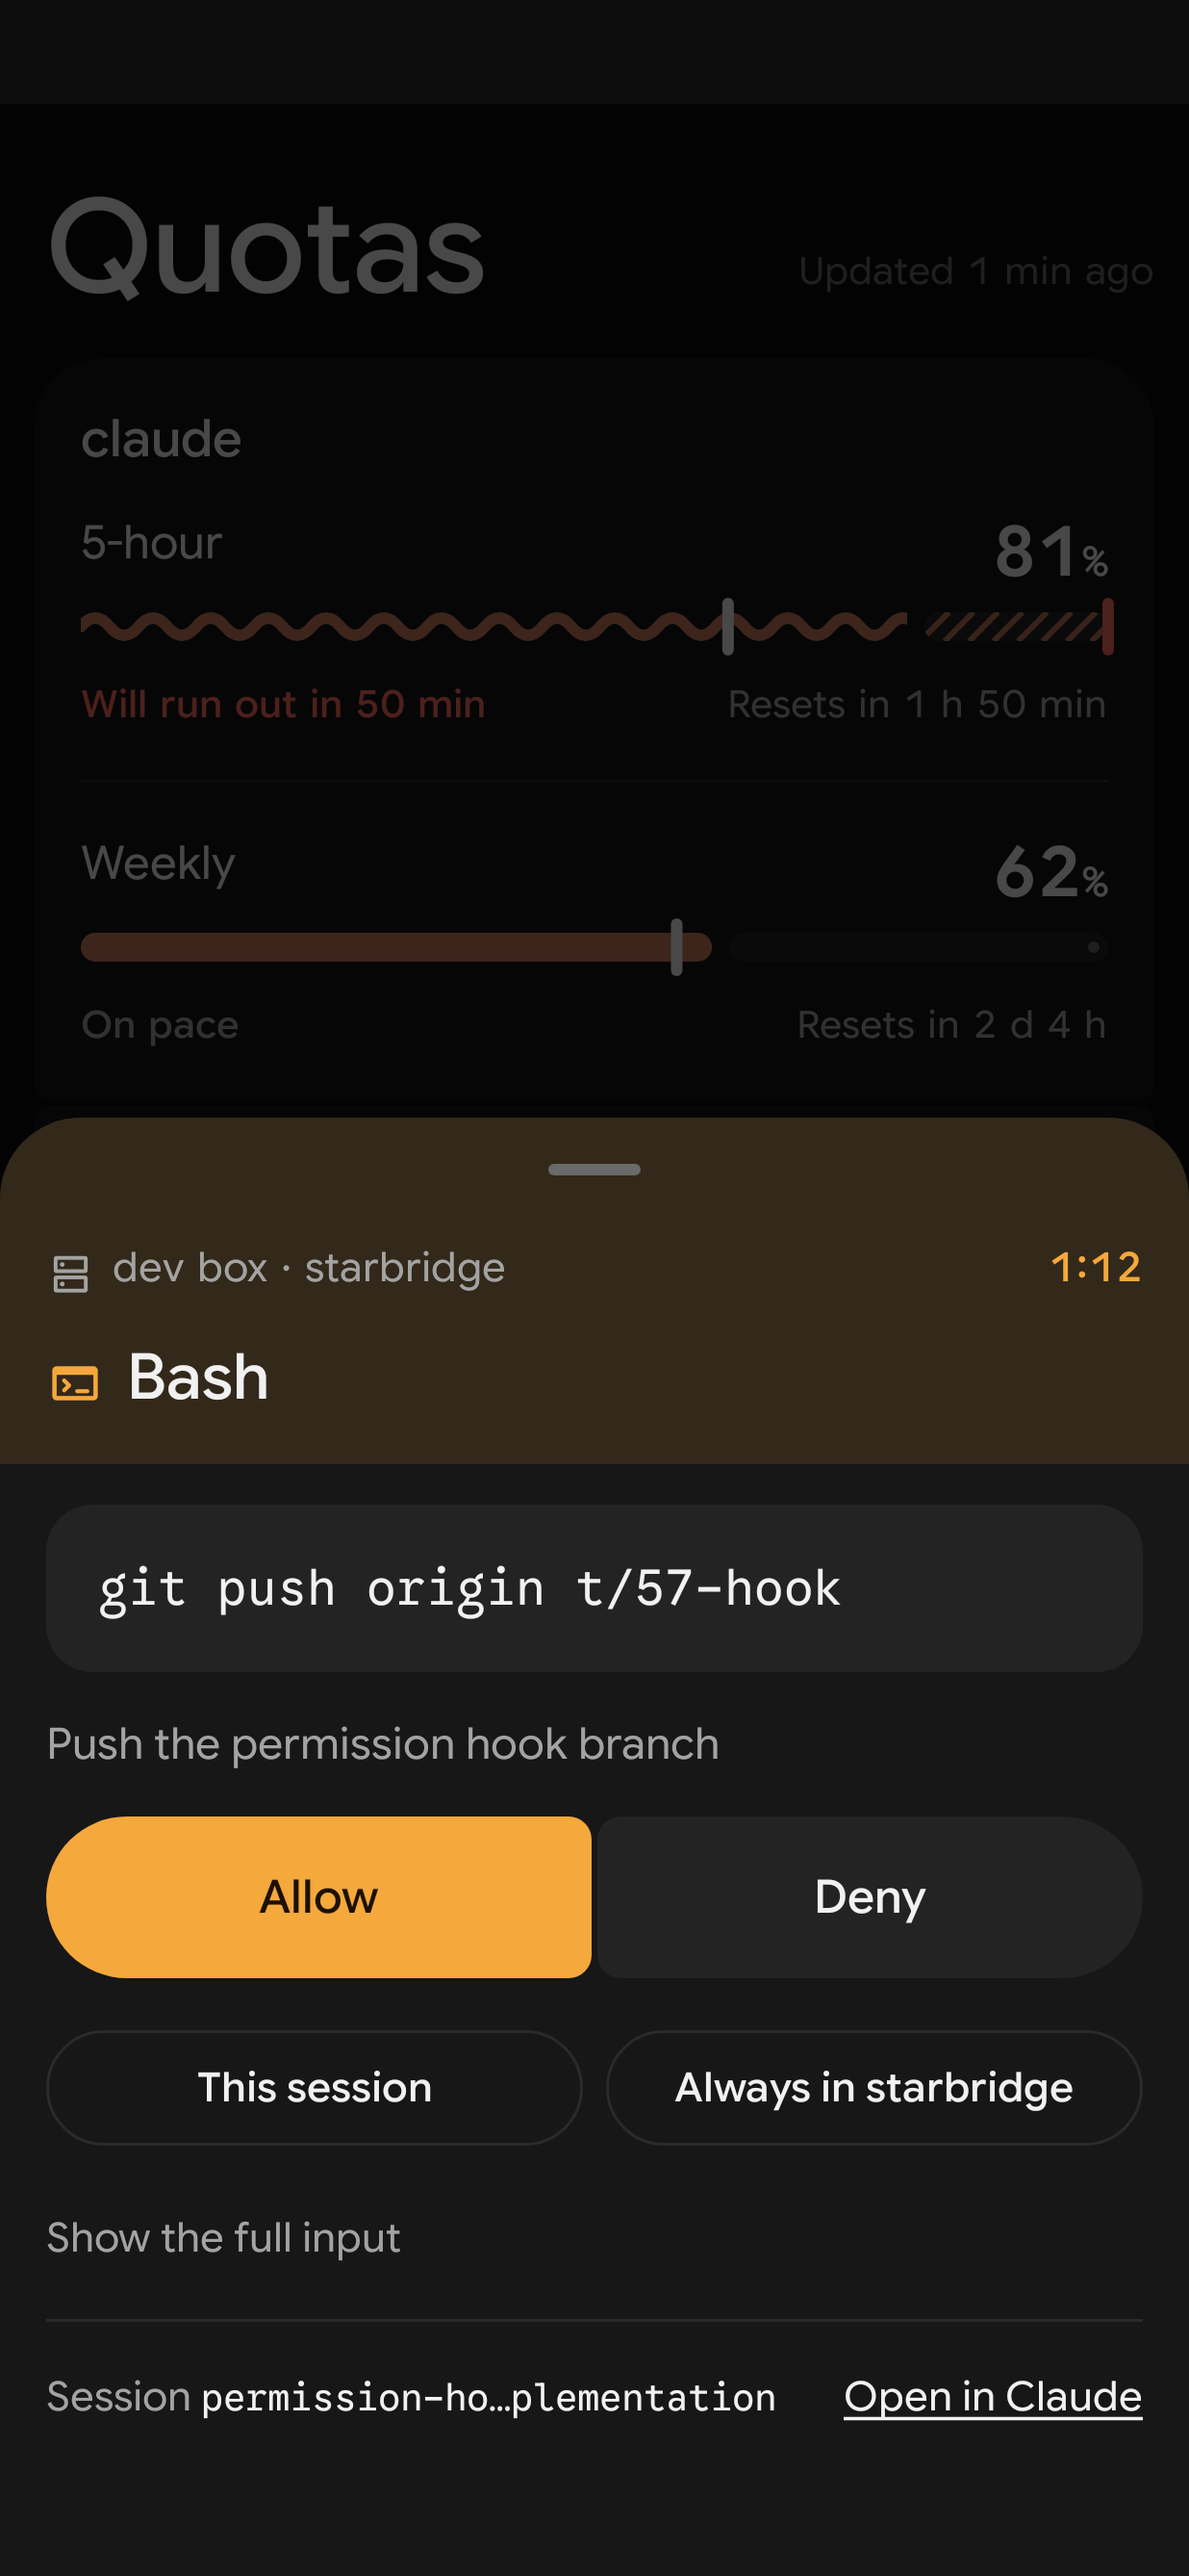
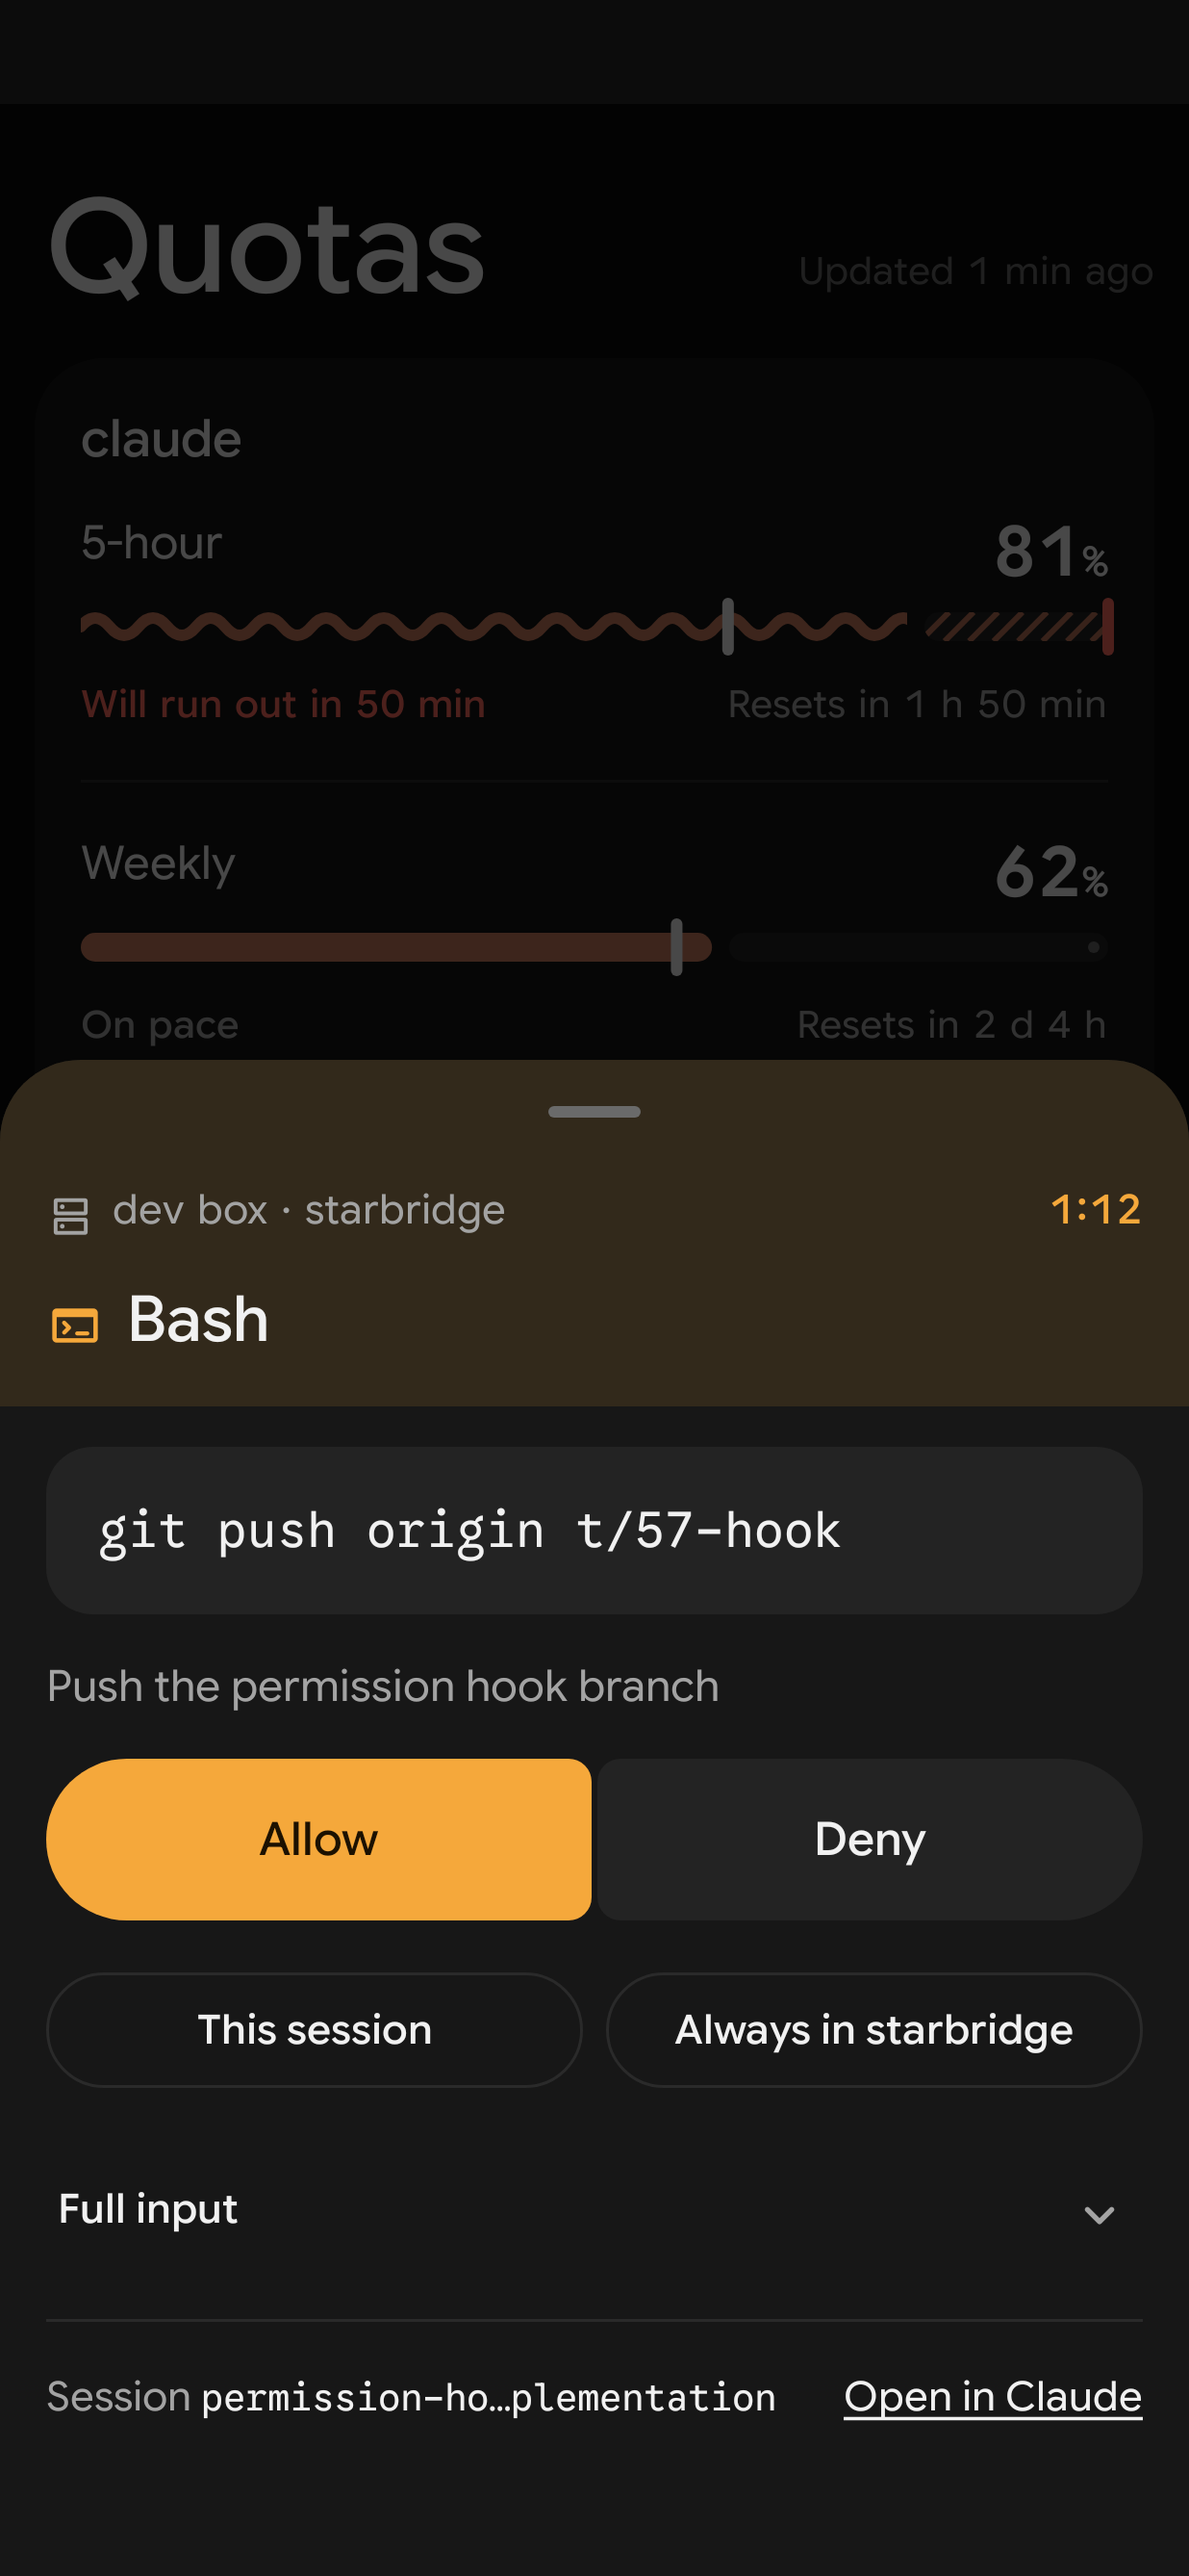
Prompt sheet: the full input opens under its row; Allow and Deny stay put

diff --git a/android/app/src/main/kotlin/dev/starbridge/app/ui/inbox/Prompts.kt b/android/app/src/main/kotlin/dev/starbridge/app/ui/inbox/Prompts.kt
@@ -1,5 +1,13 @@
 package dev.starbridge.app.ui.inbox
 
+import androidx.compose.ui.draw.clip
+import androidx.compose.ui.draw.rotate
+import androidx.compose.animation.fadeOut
+import androidx.compose.animation.fadeIn
+import androidx.compose.animation.shrinkVertically
+import androidx.compose.animation.expandVertically
+import androidx.compose.animation.core.animateFloatAsState
+import androidx.compose.animation.AnimatedVisibility
 import androidx.compose.foundation.background
 import androidx.compose.foundation.clickable
 import androidx.compose.foundation.horizontalScroll
@@ -228,14 +236,6 @@ fun PromptSheet(prompt: Prompt, now: Instant, actions: PromptActions) {
         Column(verticalArrangement = Arrangement.spacedBy(14.dp)) {
             Command(prompt.summary, StarbridgeTheme.type.code.copy(fontSize = 17.sp, lineHeight = 26.sp), scheme.surfaceContainerHighest, RoundedCornerShape(Spacing.s4), PaddingValues(horizontal = 18.dp, vertical = Spacing.s4))
             prompt.description?.let { Text(it, style = StarbridgeTheme.type.reading.copy(lineHeight = 22.sp), color = scheme.onSurfaceVariant) }
-            if (input) {
-                Text(
-                    prettyInput(prompt.input),
-                    style = StarbridgeTheme.type.code,
-                    color = scheme.onSurface,
-                    modifier = Modifier.fillMaxWidth().background(scheme.surfaceContainerHighest, RoundedCornerShape(Spacing.s4)).horizontalScroll(rememberScrollState()).padding(Spacing.s4),
-                )
-            }
             if (waiting) {
                 AllowDeny(56.dp, !sent, scheme.surfaceContainerHighest, onAllow = { send(true, "once", null) }, onDeny = { if (denying) send(false, "once", note.ifBlank { null }) else denying = true })
                 if (denying) {
@@ -260,11 +260,40 @@ fun PromptSheet(prompt: Prompt, now: Instant, actions: PromptActions) {
                     }
                 }
             }
+            FullInput(prompt.input, input) { input = !input }
+        }
+    }
+}
+
+/**
+ * "Full input": a row with a chevron that opens the tool's input under itself, as Material's
+ * expandable sections do, so nothing above it moves and Allow and Deny stay under the thumb (#265).
+ */
+@Composable
+private fun FullInput(input: String, open: Boolean, onToggle: () -> Unit) {
+    val scheme = MaterialTheme.colorScheme
+    val turn by animateFloatAsState(if (open) 180f else 0f, MaterialTheme.motionScheme.fastSpatialSpec(), label = "chevron")
+    Column {
+        Row(
+            Modifier.fillMaxWidth().heightIn(min = 48.dp).clip(RoundedCornerShape(Spacing.s3))
+                .clickable(onClickLabel = if (open) "Hide the full input" else "Show the full input", onClick = onToggle)
+                .semantics { stateDescription = if (open) "Expanded" else "Collapsed" }
+                .padding(horizontal = Spacing.s1),
+            verticalAlignment = Alignment.CenterVertically,
+        ) {
+            Text("Full input", style = StarbridgeTheme.type.label, color = scheme.onSurface, modifier = Modifier.weight(1f))
+            Symbol(Sym.ExpandMore, size = 22.dp, tint = scheme.onSurfaceVariant, modifier = Modifier.rotate(turn))
+        }
+        AnimatedVisibility(
+            open,
+            enter = expandVertically(MaterialTheme.motionScheme.defaultSpatialSpec()) + fadeIn(MaterialTheme.motionScheme.defaultEffectsSpec()),
+            exit = shrinkVertically(MaterialTheme.motionScheme.fastSpatialSpec()) + fadeOut(MaterialTheme.motionScheme.fastEffectsSpec()),
+        ) {
             Text(
-                if (input) "Hide the full input" else "Show the full input",
-                style = StarbridgeTheme.type.small,
-                color = scheme.onSurfaceVariant,
-                modifier = Modifier.clickable { input = !input }.padding(vertical = Spacing.s1),
+                prettyInput(input),
+                style = StarbridgeTheme.type.code,
+                color = scheme.onSurface,
+                modifier = Modifier.padding(top = Spacing.s1).fillMaxWidth().background(scheme.surfaceContainerHighest, RoundedCornerShape(Spacing.s4)).horizontalScroll(rememberScrollState()).padding(Spacing.s4),
             )
         }
     }

diff --git a/android/app/src/test/kotlin/dev/starbridge/app/ScreenshotTest.kt b/android/app/src/test/kotlin/dev/starbridge/app/ScreenshotTest.kt
@@ -173,6 +173,12 @@ class ScreenshotTest(private val dark: Boolean) {
         Sheet({ QuotasScreen(fake.windows, now) }) { PromptSheet(p, now, promptActions) }
     }
 
+    // The full input open, under its control: Allow and Deny stay where they were (#265).
+    @Test fun sheetPromptInput() = capture("sheet-prompt-input", before = { compose.onNodeWithText("Full input").performClick() }) {
+        val p = fake.prompts.first()
+        Sheet({ QuotasScreen(fake.windows, now) }) { PromptSheet(p, now, promptActions) }
+    }
+
     @Config(qualifiers = "w412dp-h1060dp-xxhdpi")
     @Test fun quotas() = capture("quotas") { Phone(Tab.Quotas, 4) { QuotasScreen(fake.windows, now) } }
 

diff --git a/SPEC.md b/SPEC.md
@@ -1115,6 +1115,11 @@ How it generalizes is open.
   grouping, then "History · N" with the matching answered items, History open or not. A
   History item also matches by its answer. Matched words show bold on `surface2`, never in
   amber; Escape in the box clears it. Android's search waits for the owner's pick.
+- 2026-10-06. A prompt sheet's full input opens in place (#265): "Full input" is a full-width
+  row with a chevron at the end of the sheet, and the JSON expands under it, as Material's
+  expandable sections do. Nothing above the row moves, so Allow and Deny stay where they were.
+  A full-screen view was the other option; it hides the command and the buttons while the
+  owner reads, for an input that is rarely long.
 
 ## Encryption, with existing libraries
 
